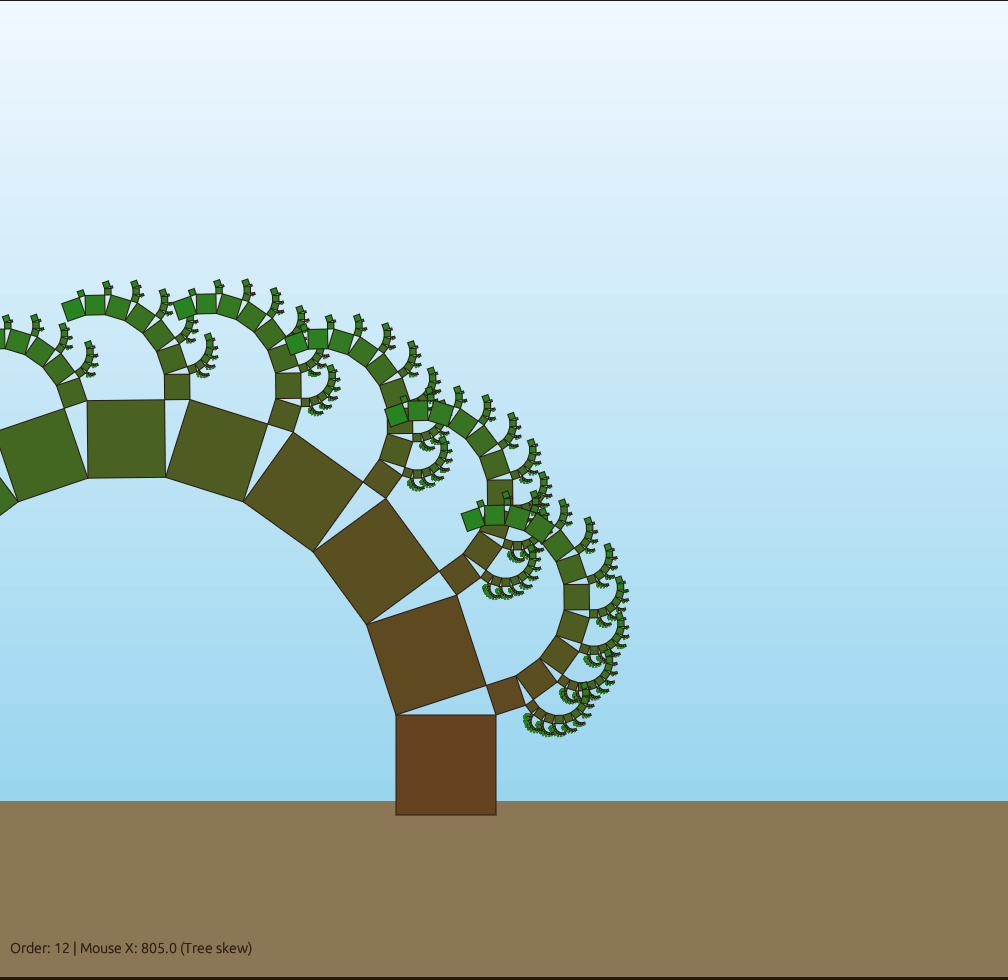
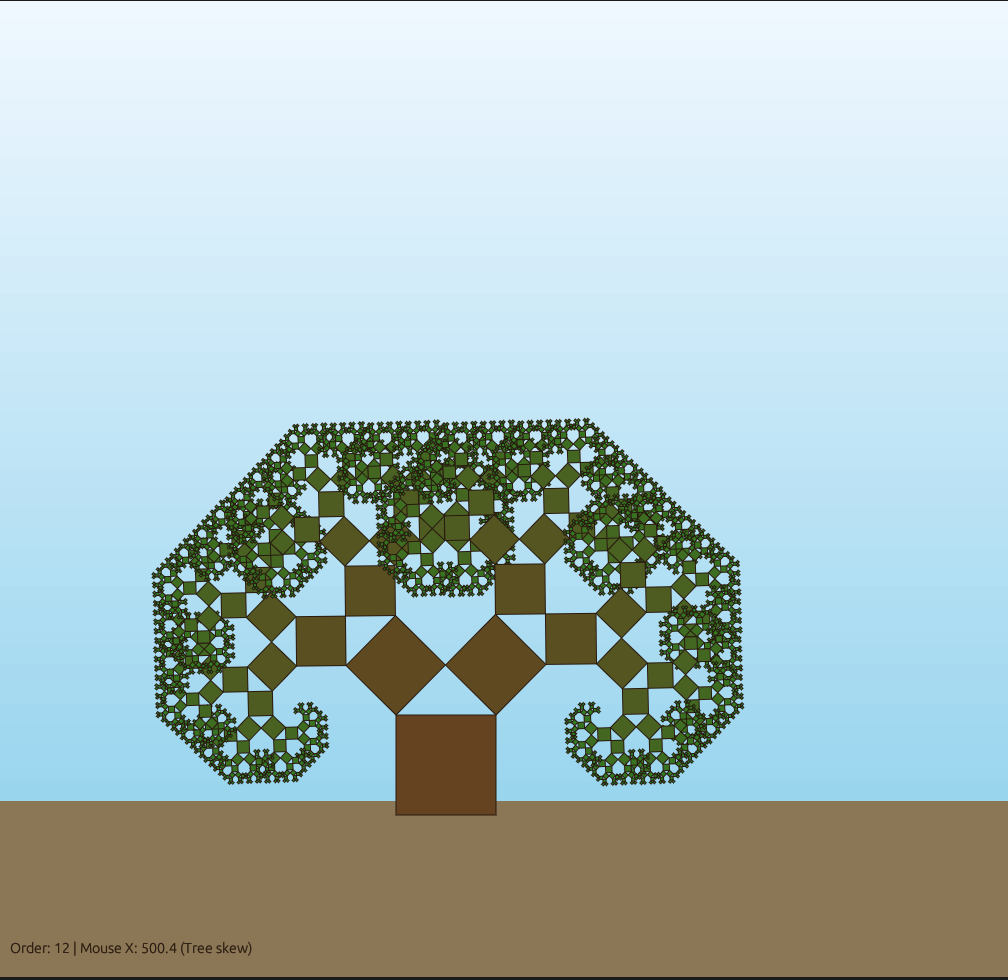
added fractals

Changed region(s): [[0.0, 0.2755, 0.7381, 0.8265]]

diff --git a/pythagorean_tree/README.md b/pythagorean_tree/README.md
@@ -1,7 +1,7 @@
 # Pythagorean tree
 
-![Alt text](img/0.png)
 ![Alt text](img/1.png)
 ![Alt text](img/2.png)
 ![Alt text](img/3.png)
 ![Alt text](img/4.png)
+![Alt text](img/5.png)
